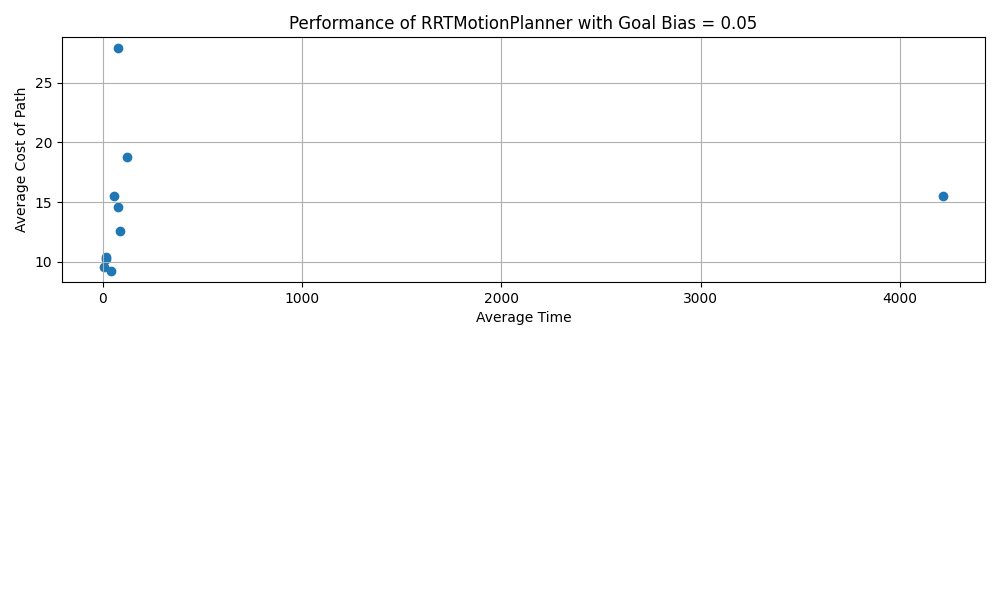
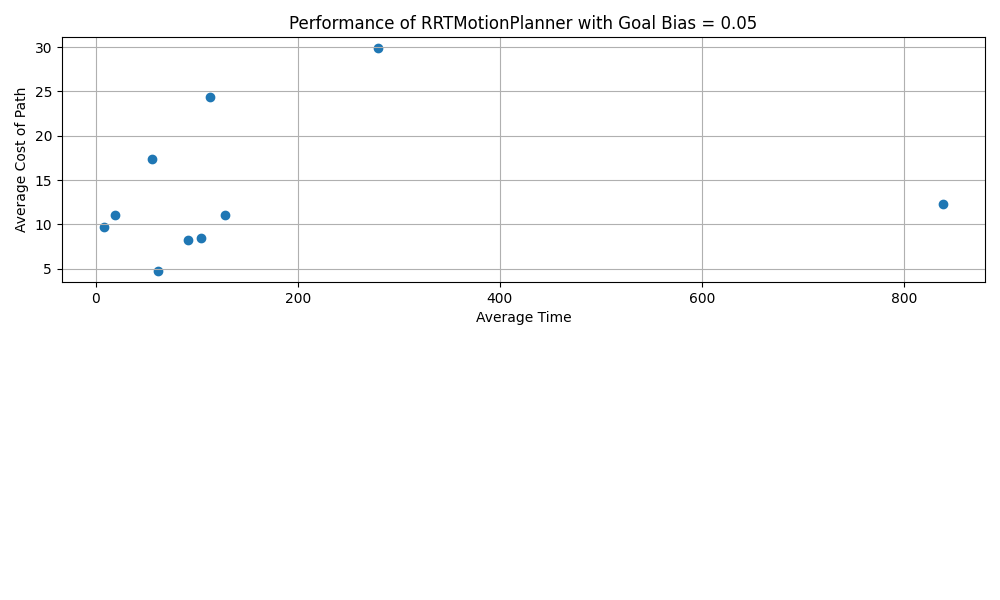
reran plotter for coverage=0.75 to obtain better representing results

diff --git a/hw3_code/ip-task-no-bias-plotter.py b/hw3_code/ip-task-no-bias-plotter.py
@@ -55,8 +55,9 @@ def main(args):
         #     continue # algorithm doesnt converge!
         costs = []
         times = []
+        results = []
 
-        for _ in range(num_executions):
+        for i in range(num_executions):
             
             planning_env = MapEnvironment(json_file=args.map, task=args.task)
 
@@ -71,7 +72,7 @@ def main(args):
 
             start_time = time.time()
             
-            plan = run_with_timeout(planner,timeout=1000) # dont allow runs for more than 1000 seconds
+            plan = planner.plan()
             execution_time = time.time() - start_time
             if plan != None:
                 cost_of_path = planner.compute_cost(plan)
@@ -80,9 +81,17 @@ def main(args):
                 costs.append(cost_of_path)
                 times.append(execution_time)
                 succesful_runs += 1
+                results.append({
+                    f"cost_of_path_{i}": cost_of_path,
+                    f"execution_time_{i}": execution_time
+                })
             else:
                 costs.append(0)
                 times.append(0)
+                results.append({
+                    f"cost_of_path_{i}": 'Took longer than 1000 seconds so we stopped it',
+                    f"execution_time_{i}": 'Took longer than 1000 seconds so we stopped it'
+                })
 
         avg_cost = sum(costs) / succesful_runs
         avg_time = sum(times) / succesful_runs
@@ -97,7 +106,8 @@ def main(args):
         output_data = {
             # "goal_bias": bias,
             "average_cost_of_path": avg_cost,
-            "average_execution_time": avg_time
+            "average_execution_time": avg_time,
+            "results": results  # Add results to output data
         }
         if args.task == 'mp':
             output_file = f"mp-task\\bias={bias}\\{ext}\\output_bias_{args.task}_bias={bias}_ext={ext}.json"

diff --git a/hw3_code/RRTInspectionPlannerNoBias.py b/hw3_code/RRTInspectionPlannerNoBias.py
@@ -34,11 +34,8 @@ class RRTInspectionPlanner(object):
         self.tree.add_vertex(self.planning_env.start, self.planning_env.get_inspected_points(self.planning_env.start))
         counter = 0
         while self.tree.max_coverage < self.coverage:
-            #goal_bias = np.random.random()
-            #if goal_bias < self.goal_prob: 
-            #    random_config = self.tree.vertices[self.tree.max_coverage_id].config
-            #else:
-            
+            if(time.time()-start_time > 1000):
+                return None
             if (counter % 100 == 0):
                 print("iteration, ", counter,end="\t")
                 print("self.tree.max_coverage, ", self.tree.max_coverage)
@@ -59,15 +56,6 @@ class RRTInspectionPlanner(object):
                 
                 last_id = nearest_state_idx
                 last_config = nearest_config
-
-                # # This is an improvement for the algorithm that sums up intermediate points for edges
-                # if APPEND_INTERMEDIATE_INSPECTIONS:
-                #     # Get intermediate points
-                #     interpolation_steps = min(int(np.linalg.norm(nearest_config - new_config)//INTERMEDIATE_MIN_STEP), INTERMEDIATE_MAX_INSPECTIONS)   # Hyperparameter 6 for max intermediates
-                #     if interpolation_steps > 0:
-                #         interpolated_configs = np.linspace(start=nearest_config, stop=new_config, num=interpolation_steps)
-                #         for intermediate_config in interpolated_configs:
-                #             new_inspection_points = self.planning_env.compute_union_of_points(new_inspection_points, self.planning_env.get_inspected_points(intermediate_config))
 
                 new_inspection_points = self.planning_env.compute_union_of_points(new_inspection_points, nearest_inspection_points)
 

diff --git a/hw3_code/ip-task-plotter.py b/hw3_code/ip-task-plotter.py
@@ -34,10 +34,13 @@ def main(args):
 
     for bias, ext, coverage in all_combinations: # for inspection planning
     # for bias, ext in zip(goal_biases, extensions): # for motion planning
+        if coverage != 0.75 or ext != 'E1' or bias != 0.05:
+            continue # algorithm doesnt converge!
         costs = []
         times = []
+        results = []
 
-        for _ in range(num_executions):
+        for i in range(num_executions):
             
             planning_env = MapEnvironment(json_file=args.map, task=args.task)
 
@@ -58,6 +61,10 @@ def main(args):
 
             costs.append(cost_of_path)
             times.append(execution_time)
+            results.append({
+                f"cost_of_path_{i}": cost_of_path,
+                f"execution_time_{i}": execution_time
+            })
 
         avg_cost = sum(costs) / num_executions
         avg_time = sum(times) / num_executions
@@ -72,7 +79,8 @@ def main(args):
         output_data = {
             "goal_bias": bias,
             "average_cost_of_path": avg_cost,
-            "average_execution_time": avg_time
+            "average_execution_time": avg_time,
+            "results": results  # Add results to output data
         }
         if args.task == 'mp':
             output_file = f"mp-task\\bias={bias}\\{ext}\\output_bias_{args.task}_bias={bias}_ext={ext}.json"
